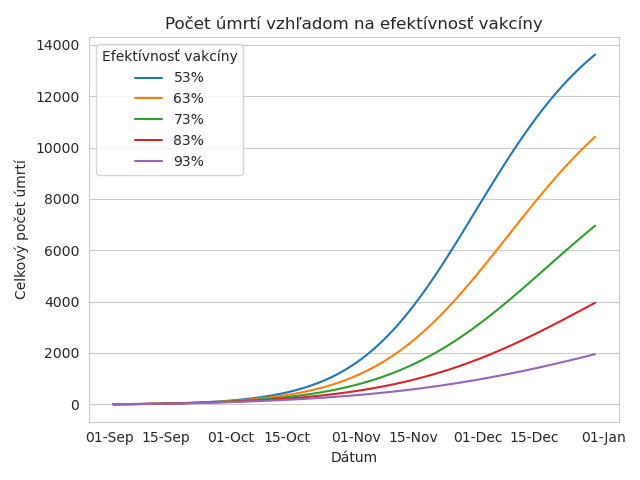
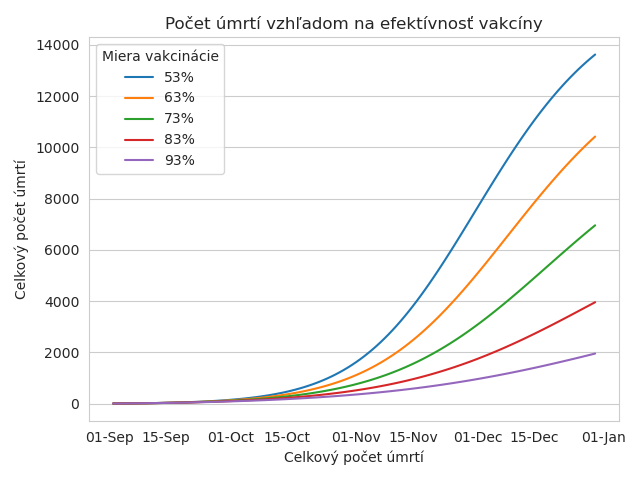
Plotting ex3

diff --git a/plot.py b/plot.py
@@ -134,28 +134,27 @@ def get_total_deaths(filename, vaccine_effectivity, date_start):
     return df[["date", cases_col]].copy()
 
 
-def plot_effectivity_deaths(fig_location, date_start):
-    filename = "out/ex1_effectivity_{}.csv"
-    df = get_total_deaths(filename, 53, date_start)
+def plot_deaths(title, col, ylabel, filename, fig_location, date_start, vals):
+    df = get_total_deaths(filename, vals[0], date_start)
 
-    for p in [63, 73, 83, 93]:
+    for p in vals[1:]:
         df2 = get_total_deaths(filename, p, date_start)
         df = df.merge(df2, on="date", how="left")
 
-    df = df.melt(id_vars=["date"], var_name="Efektívnosť vakcíny")
+    df = df.melt(id_vars=["date"], var_name=col)
 
     ax = sns.lineplot(
         data=df,
         x="date",
         y="value",
-        hue="Efektívnosť vakcíny"
+        hue=col
     )
 
     ax.grid(visible=False, which='major', axis='x')
-    ax.set_title("Počet úmrtí vzhľadom na efektívnosť vakcíny")
+    ax.set_title(title)
 
     ax.set_ylabel("Celkový počet úmrtí")
-    ax.set_xlabel("Dátum")
+    ax.set_xlabel(ylabel)
 
     ax.xaxis.set_major_formatter(dates.DateFormatter("%d-%b"))
 
@@ -163,88 +162,26 @@ def plot_effectivity_deaths(fig_location, date_start):
     ax.get_figure().savefig(fig_location)
     ax.get_figure().clf()
 
+def plot_cases(title, ylabel, col, filename, fig_location, date_start, vals):
+    df = get_total_cases(filename, vals[0], date_start)
 
-def plot_vaccine_rate_deaths(fig_location, date_start):
-    filename = "out/ex2_vaccination_{}.csv"
-    df = get_total_deaths(filename, 40, date_start)
-
-    for p in [50, 60, 70, 80]:
-        df2 = get_total_deaths(filename, p, date_start)
-        df = df.merge(df2, on="date", how="left")
-
-    df = df.melt(id_vars=["date"], var_name="Miera vakcinácie")
-
-    ax = sns.lineplot(
-        data=df,
-        x="date",
-        y="value",
-        hue="Miera vakcinácie"
-    )
-
-    ax.grid(visible=False, which='major', axis='x')
-    ax.set_title("Počet úmrtí vzhľadom na mieru vakcinácie populácie")
-
-    ax.set_ylabel("Celkový počet úmrtí")
-    ax.set_xlabel("Dátum")
-
-    ax.xaxis.set_major_formatter(dates.DateFormatter("%d-%b"))
-
-    ax.get_figure().tight_layout()
-    ax.get_figure().savefig(fig_location)
-    ax.get_figure().clf()
-
-
-def plot_vaccine_rate_cases(fig_location, date_start):
-    filename = "out/ex2_vaccination_{}.csv"
-    df = get_total_cases(filename, 40, date_start)
-
-    for p in [50, 60, 70, 80]:
+    for p in vals[1:]:
         df2 = get_total_cases(filename, p, date_start)
         df = df.merge(df2, on="date", how="left")
 
-    df = df.melt(id_vars=["date"], var_name="Miera vakcinácie")
+    df = df.melt(id_vars=["date"], var_name=col)
 
     ax = sns.lineplot(
         data=df,
         x="date",
         y="value",
-        hue="Miera vakcinácie"
+        hue=col
     )
 
     ax.grid(visible=False, which='major', axis='x')
-    ax.set_title("Počet prípadov vzhľadom na mieru vakcinácie populácie")
+    ax.set_title(title)
 
-    ax.set_ylabel("Celkový počet prípadov")
-    ax.set_xlabel("Dátum")
-
-    ax.xaxis.set_major_formatter(dates.DateFormatter("%d-%b"))
-
-    ax.get_figure().tight_layout()
-    ax.get_figure().savefig(fig_location)
-    ax.get_figure().clf()
-
-
-def plot_effectivity_cases(fig_location, date_start):
-    filename = "out/ex1_effectivity_{}.csv"
-    df = get_total_cases(filename, 53, date_start)
-
-    for p in [63, 73, 83, 93]:
-        df2 = get_total_cases(filename, p, date_start)
-        df = df.merge(df2, on="date", how="left")
-
-    df = df.melt(id_vars=["date"], var_name="Efektívnosť vakcíny")
-
-    ax = sns.lineplot(
-        data=df,
-        x="date",
-        y="value",
-        hue="Efektívnosť vakcíny"
-    )
-
-    ax.grid(visible=False, which='major', axis='x')
-    ax.set_title("Počet prípadov vzhľadom na efektívnosť vakcíny")
-
-    ax.set_ylabel("Celkový počet prípadov")
+    ax.set_ylabel(ylabel)
     ax.set_xlabel("Dátum")
 
     ax.xaxis.set_major_formatter(dates.DateFormatter("%d-%b"))
@@ -348,9 +285,72 @@ if __name__ == "__main__":
     # calc_mean_cfr("2020-aug-01", "2021-dec-01")
     plot_2020_no_vaccine()
     plot_2021_vaccine()
-    plot_vaccine_rate_cases("img/ex2_cases.png", "2021-sep-01")
-    plot_vaccine_rate_deaths("img/ex2_deaths.png", "2021-sep-01")
-    plot_effectivity_cases("img/ex1_cases.png", "2021-sep-01")
-    plot_effectivity_deaths("img/ex1_deaths.png", "2021-sep-01")
+    
+    # Plot experiment 1 results
+    plot_cases(
+        title="Počet prípadov vzhľadom na efektívnosť vakcíny",
+        col="Miera vakcinácie",
+        ylabel="Celkový počet prípadov",
+        filename="out/ex1_effectivity_{}.csv", 
+        fig_location="img/ex1_cases.png",
+        date_start="2021-sep-01",
+        vals = [53, 63, 73, 83, 93]
+        )
+    
+    
+    plot_deaths(
+        title="Počet úmrtí vzhľadom na efektívnosť vakcíny",
+        col="Miera vakcinácie",
+        ylabel="Celkový počet úmrtí",
+        filename="out/ex1_effectivity_{}.csv",
+        fig_location="img/ex1_deaths.png", 
+        date_start="2021-sep-01",
+        vals=[53, 63, 73, 83, 93]
+        )
+    
+    
+    # Plot experiment 2 results
+    plot_cases(
+        title="Počet prípadov vzhľadom na mieru vakcinácie populácie",
+        filename="out/ex2_vaccination_{}.csv",
+        fig_location="img/ex2_cases.png",
+        col="Efektívnosť vakcín",
+        ylabel="Celkový počet prípadov",
+        date_start="2021-sep-01",
+        vals=[40, 50, 60, 70, 80]
+        )
+    
+    plot_deaths(
+        title="Počet úmrtí vzhľadom na mieru vakcinácie populácie",
+        col="Efektívnosť vakcín",
+        ylabel="Celkový počet úmrtí",
+        filename="out/ex2_vaccination_{}.csv",
+        fig_location="img/ex2_deaths.png",
+        date_start="2021-sep-01",
+        vals=[40, 50, 60, 70, 80]
+        )
+    
+    # # Plot experiment 3 results
+    for e in [53, 63, 73, 83, 93]:
+        plot_cases(
+            title=f"Prípady vzhľadom na mieru vakcinácie populácie, $\sigma$ = {100-e}%",
+            col="Miera zaočkovania",
+            ylabel="Celkový počet prípadov",
+            filename=f"out/ex3_e_{e}" + "_v_{}.csv",
+            fig_location=f"img/ex3_e_{e}_cases.png",
+            date_start="2021-sep-01",
+            vals=[40, 50, 60, 70, 80]
+        )
+        
+        plot_deaths(
+            title=f"Úmrtia vzhľadom na mieru vakcinácie populácie, $\sigma$ = {100-e}%",
+            col="Miera zaočkovania",
+            ylabel="Celkový počet úmrtí",
+            filename=f"out/ex3_e_{e}" + "_v_{}.csv",
+            fig_location=f"img/ex3_e_{e}_deaths.png",
+            date_start="2021-sep-01",
+            vals=[40, 50, 60, 70, 80]
+        )
+
     ...
 # %%
